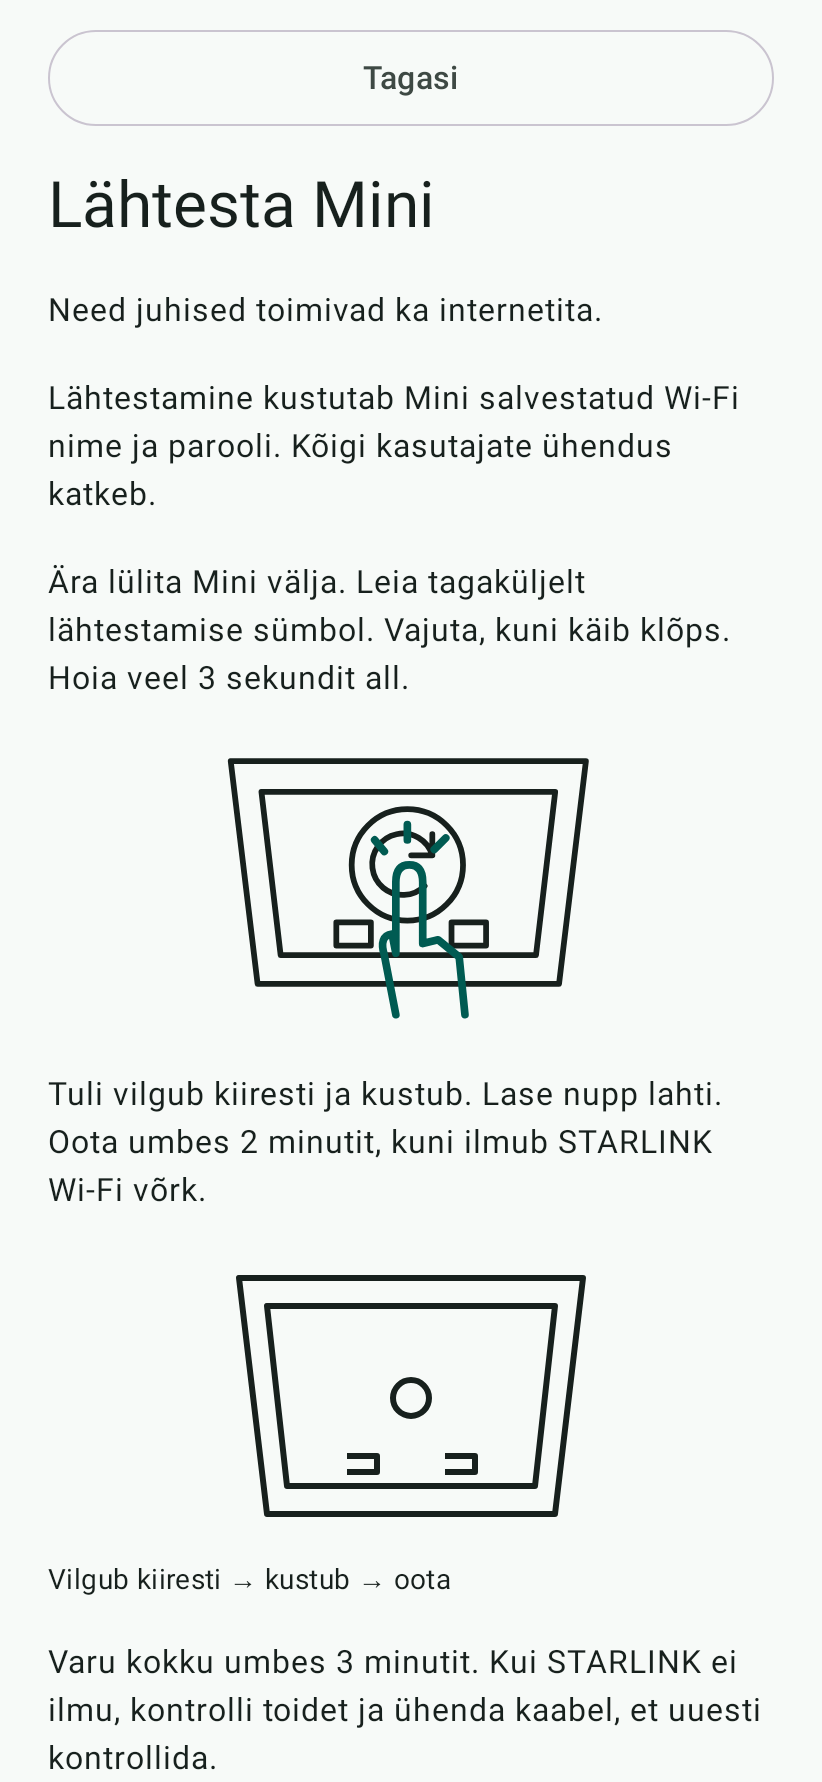
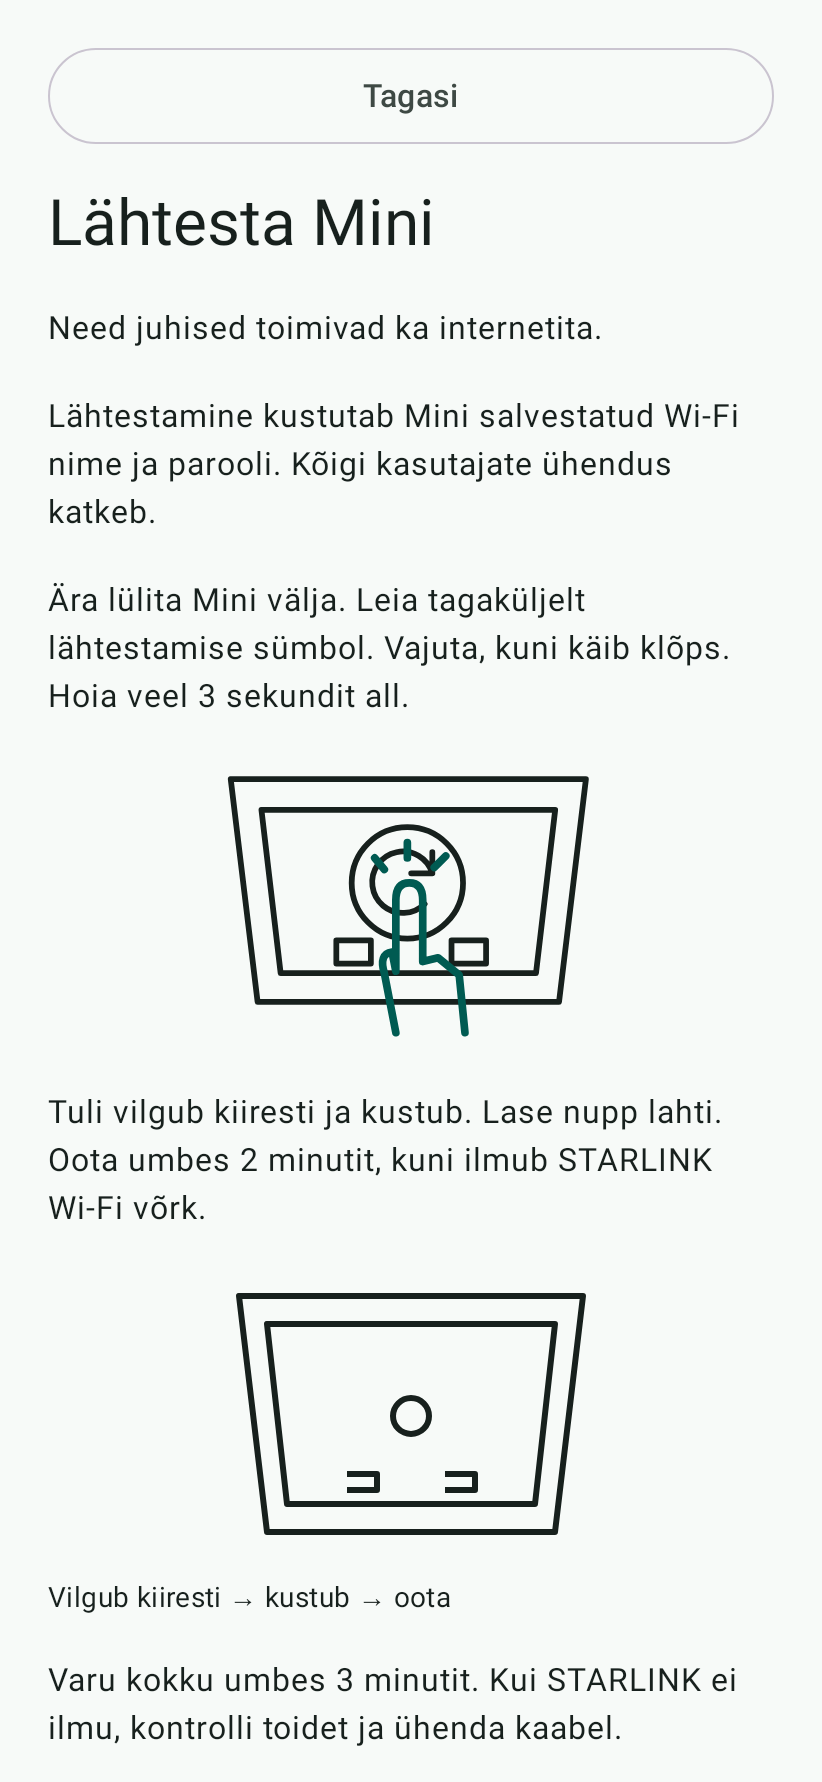
Fix Estonian review wording and rebase follow-up (#33)

diff --git a/app/src/test/kotlin/eu/tsernikov/slminiwifi/ui/EstonianScreenshotsTest.kt b/app/src/test/kotlin/eu/tsernikov/slminiwifi/ui/EstonianScreenshotsTest.kt
@@ -90,7 +90,7 @@ class EstonianScreenshotsTest {
             ResetGuideScreen({}, animateGuides = false)
         }
         captureWithCheckpoints("reset_guide", scale, listOf(
-            R.string.reset_press, R.string.reset_light, R.string.reset_wait, R.string.check_again,
+            R.string.reset_press, R.string.reset_light, R.string.reset_wait, R.string.back,
         ))
         assertLayoutAndTouchTargets()
     }

diff --git a/docs/TRANSLATION-et.md b/docs/TRANSLATION-et.md
@@ -2,7 +2,7 @@
 
 The Estonian UI uses short sentences and informal singular instructions: **Vajuta**,
 **Ühenda**, **Vali**. Status messages describe what the app is doing; buttons that
-acknowledge a completed physical step use **Vajutatud**, **Oodatud** or **Kaabel on
+acknowledge a completed physical step use **Olen vajutanud**, **Olen oodanud** or **Kaabel on
 ühendatud**. No device operations or English wording changed.
 
 The default language is English. Estonian follows the phone language and is also
@@ -10,17 +10,16 @@ available in Android 13+ per-app language settings. The APK includes only Englis
 and Estonian locale resources. Older Android versions follow the phone language;
 there is no additional in-app language menu.
 
-There are 196 base strings: 186 Estonian translations and 10 fixed strings marked
+There are 197 base strings: 187 Estonian translations and 10 fixed strings marked
 non-translatable in the base resources. These fixed strings are the app name,
 STARLINK, Mini, Wi-Fi, SSID, 5 GHz, WPA2, WPA3, WPA2 / WPA3 and WAN / Internet.
 The latter preserves the physical port markings. The localized frequency **2,4 GHz**
 uses an Estonian decimal comma. Format arguments retain their indices and types.
 
 The base resources declare `tools:locale="en"` so lint knows the fallback language.
-One identical English `ready_title` entry in `values-en/strings.xml` makes the
-English locale explicit in APK badging. Keep it synchronized with the base title.
-AAPT resource deduplication is disabled so it does not discard that identical
-entry; no English text changes. Other English strings still come from the base.
+English strings come from the default `values/strings.xml`; there is no duplicate
+`values-en` resource or resource-deduplication override. `localeFilters` retains
+English and Estonian, and `locales_config.xml` lists both for per-app selection.
 
 ## Glossary
 
@@ -40,6 +39,11 @@ entry; no English text changes. Other English strings still come from the base.
 | Use the same Wi-Fi as last time | Kasuta eelmist Wi-Fi võrku | Short label for reusing the saved name and password. |
 | Connect | Ühenda | Physical connection or the illustrated Android action. |
 | Join STARLINK | Liitu STARLINKiga | Keeps the network name and adds the normal Estonian case ending. |
+| Join on this phone | Liitu selles telefonis | The action happens on this phone; it does not join the phone. |
+| Cancel | Tühista | Cancels the current choice. |
+| Not available | Pole saadaval | Distinct from unknown. |
+| I have pressed / waited | Olen vajutanud / Olen oodanud | Explicit acknowledgement of a completed physical step. |
+| Use Wi-Fi / cable instead | Kasuta hoopis Wi-Fi võrku / Kasuta hoopis kaablit | Preserves the alternative connection choice. |
 | Check again | Kontrolli uuesti | Read-only action. |
 | Cable port | Kaablipesa | A visible socket, not the technical term “port”. |
 | Internet port | Internetipesa | Guidance retains the physical WAN / Internet markings. |
@@ -69,17 +73,16 @@ Branding remains **Mini Wi-Fi Switch** in both the UI and store title.
 - **Inglise tähed** follows the final English input rules. It means letters without
   Estonian diacritics for passwords; names can contain those letters but may need
   to be shorter. The underlying validation is unchanged.
-- **Vajutatud** and **Oodatud** acknowledge a completed step without a long first-person
-  sentence. Review whether the audience finds these sufficiently explicit.
 - **Ühenda**, **Salvesta** and **unusta võrk** describe Android actions. Exact system
   labels can differ by Android version, manufacturer and system language, especially
   if only this app is switched to Estonian.
 - Technical Details uses **Autentimine**, **Raadio** and **5 GHz ülemine sagedusala**.
   These are deliberately kept out of the main instructions.
 
-Issue #33 requires review by a second, independent model **before merge**. That
-language review is still pending; the implementation and layout checks here do not
-claim to replace it.
+The supplied reviewer corrections were applied in fix cycle 1, including
+phone-local joining, explicit completed-step labels, cable direction and consistent
+wording. The shortened Ready choice explanations remain unchanged. The owner
+wording questions above remain available for review.
 
 ## Screenshot coverage
 
@@ -92,49 +95,51 @@ under [screenshots/et/](screenshots/et/):
   explanation and reset action.
 - `wifi_off_light*.png`: Wi-Fi off Home and reset action.
 - `not_found_light*.png`: connection guidance, cable, Android dialog and actions.
-- `reset_guide_light*.png`: reset warning, press, light, waiting and check action.
+- `reset_guide_light*.png`: reset warning, press, light, waiting and Back action.
 - `wifi_password_light*.png`: input rules, saved profile, password entry, show/hide
   and review actions; visible-password shots use fictional credentials.
 - `wifi_on_confirm_light*.png`: consequences, restart, Android dialog and actions.
 
-Numbered `_step_N` images show successive scroll positions; `_visible` shows the
+Numbered `_step_N` images show checkpoint scroll positions (reset ends at Back); `_visible` shows the
 password after the explicit show action. Long pages intentionally scroll. The
 tests also check text layout overflow and minimum 48 dp click targets, and verify
 that opening or cancelling confirmation does not invoke its confirm callback.
 
 ## Verification
 
-Run on 2026-10-19 with `ANDROID_HOME=/home/dev/android-sdk`:
+Fix cycle 1, run on 2026-10-19 after rebasing onto `ff3de6d`, with `ANDROID_HOME=/home/dev/android-sdk`:
 
 ```sh
 ./gradlew :protocol:test :app:testDebugUnitTest :app:verifyRoborazziDebug :app:lintDebug :app:assembleDebug
 /home/dev/android-sdk/build-tools/37.0.0/aapt2 dump badging app/build/outputs/apk/debug/app-debug.apk
 ```
 
-- Build: successful (60 tasks; 15 executed, 45 up-to-date on the final run).
-- Protocol: **52 tests**, no failures, errors or skips.
-- App: **453 tests**, including 14 new Estonian screenshot/layout cases; no failures,
+- Build: successful in 30 seconds (60 tasks; 13 executed, 47 up-to-date).
+- Protocol: **52 tests** in 5 suites, no failures, errors or skips.
+- App: **458 tests** in 30 suites, including 14 Estonian screenshot/layout cases; no failures,
   errors or skips.
 - Roborazzi: **335 unchanged comparisons**: 279 existing English and 56 Estonian.
   Zero added, changed or recorded images during verification. English baseline
   files have no diff.
 - Lint: **0 errors, 21 warnings**. The Android 13-only `localeConfig` warning is
   expected with minSdk 29; the other warnings concern existing code/resources.
-- Missing-translation negative check: temporarily removing Estonian `ready_title`
-  made `:app:lintDebug` exit 1 with exactly one `MissingTranslation` error for
-  `et`. The resource was restored byte for byte before the successful final suite.
-- APK badging: `locales: '--_--' 'en' 'et'`.
-- Resource audit: 186/186 translations, format arguments match, all 196 original
+- MissingTranslation: **0 issues**; all **187/187** translatable base strings have
+  Estonian entries, including the new `reset_checking` and updated `reset_wait`.
+- APK badging: `locales: '--_--' 'et'`. English uses the default resources
+  (`--_--`); `localeFilters` and `locales_config.xml` still specify `en` and `et`.
+- Resource audit: 187/187 translations, format arguments match, all 197 rebased
   English values unchanged. Store short description: 79/80 characters; changelogs
   1 and 2: 455 and 398 characters.
-- Visual inspection: all **56 PNGs** reviewed, including scrolled sections and
-  200% text. No clipped labels or overflowing text; long pages scroll. The two
-  Ready choice explanations were shortened to keep their text inside the rounded
-  buttons. All tested click targets are at least 48 dp in both dimensions.
+- Targeted recording: **6 tests**, **28 captures**, **17 changed Estonian PNGs**.
+  Only `notFound*`, `reset*` and `confirm*` were selected. The reset fixture now
+  checks Back because #32 removed Check again. No English baselines changed.
+- Visual inspection: all **6 changed 200% PNGs** and the normal-size cable, reset
+  wait and confirmation checkpoints were re-inspected. Corrected text fits;
+  long pages scroll. Text-layout overflow and minimum 48 dp touch-target checks
+  passed. The shortened Ready choice explanations remain unchanged.
 
 No real Mini was contacted. Product Kotlin, protocol, CI, signing and versions
-were not changed. The independent language review above remains a before-merge
-follow-up, not a claim made by the test suite.
+were not changed. Automated tests do not replace human language or hardware checks.
 
 A human may additionally check Android 13+ Settings → Apps → Mini Wi-Fi Switch →
 Language: select Estonian, return to the app, then select English. On older Android,
